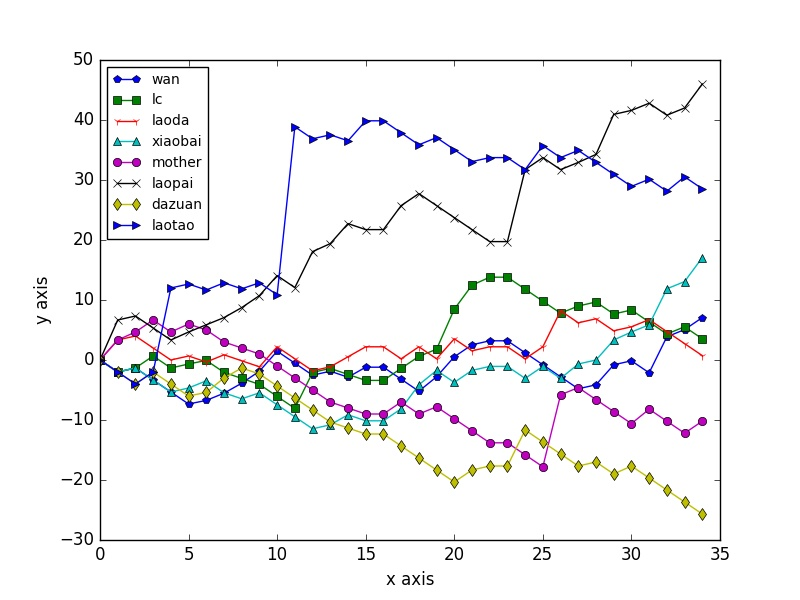
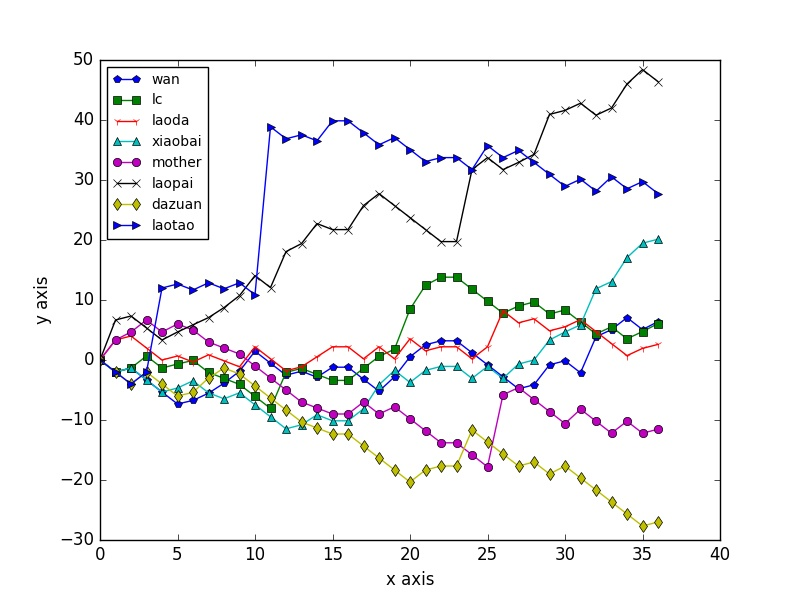
update

diff --git a/README.md b/README.md
@@ -1,23 +1,63 @@
 # E cup guess competition report
 ## real-time ranking
-2016-06-23 01:54:06
+2016-06-23 12:05:47
 
 |rank|name|score|win|loss|
 |:---:|:---:|:---:|:---:|:---:|
-|1|laopai|46.00|60%|26%|
-|2|laotao|28.53|40%|46%|
-|3|xiaobai|17.07|53%|33%|
-|4|wan|7.07|44%|42%|
-|5|lc|3.53|44%|42%|
-|6|laoda|0.73|43%|43%|
-|7|mother|-10.20|28%|58%|
-|8|dazuan|-25.67|22%|64%|
+|1|laopai|46.40|58%|29%|
+|2|laotao|27.73|39%|49%|
+|3|xiaobai|20.13|57%|31%|
+|4|wan|6.40|47%|40%|
+|5|lc|6.07|49%|39%|
+|6|laoda|2.60|47%|40%|
+|7|mother|-11.53|31%|57%|
+|8|dazuan|-27.00|25%|62%|
 
 ## Pond
-551.93
+548.20
 
 ## History
 ![image](https://github.com/Anserw/E_Cup/blob/master/plot.jpg)
+### 2016062303 Italy 0 : 1 Ireland
+- handicap: -0.5 / 0
+- scorer: laotao
+- owners:
+ - Italy: xiaobai
+ - Ireland: laopai
+
+
+|name|guess|score change|
+|:---:|:---:|:---:|
+|wan|Italy|-2.00|
+|lc|Ireland|1.20|
+|laoda|Ireland|1.20|
+|xiaobai|Ireland|2.40|
+|mother|Italy|-2.00|
+|laopai|Ireland|2.40|
+|dazuan|Italy|-2.00|
+|laotao|Ireland|1.20|
+|Pond|..|-2.40|
+
+### 2016062303 Sweden 0 : 1 Belgium
+- handicap: 0.5
+- scorer: laotao
+- owners:
+ - Sweden: wan
+ - Belgium: lc
+
+
+|name|guess|score change|
+|:---:|:---:|:---:|
+|wan|Belgium|1.33|
+|lc|Belgium|1.33|
+|laoda|Belgium|0.67|
+|xiaobai|Belgium|0.67|
+|mother|Belgium|0.67|
+|laopai|Sweden|-2.00|
+|dazuan|Belgium|0.67|
+|laotao|Sweden|-2.00|
+|Pond|..|-1.33|
+
 ### 2016062300 Hungary 3 : 3 Portugal
 - handicap: 1.5 / 1
 - scorer: laotao
